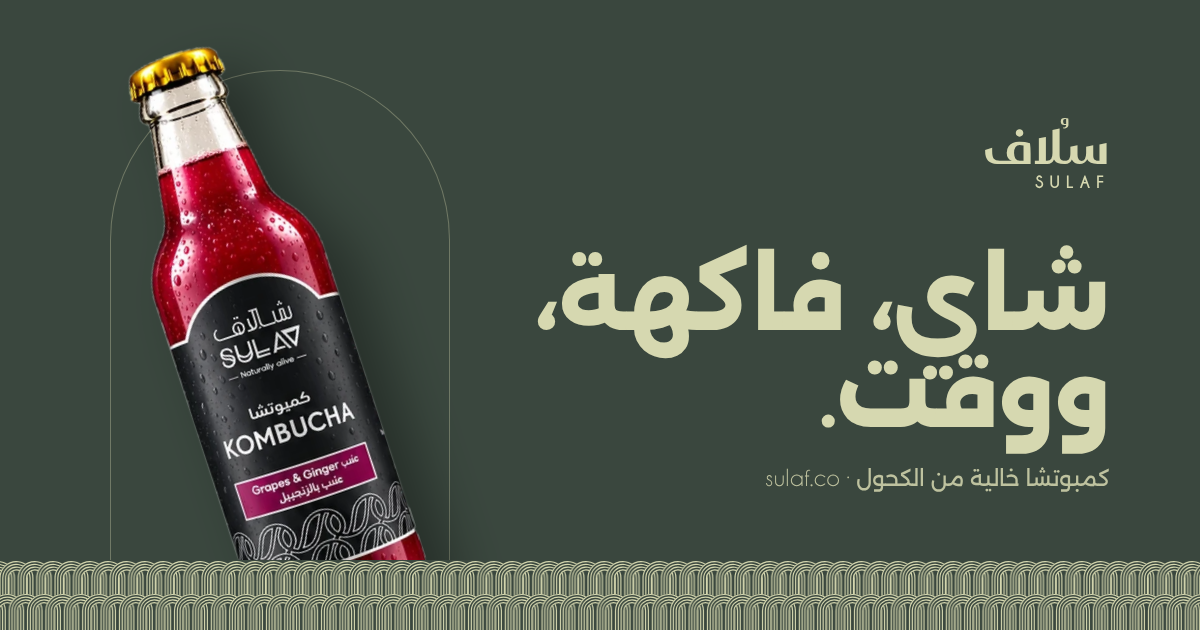
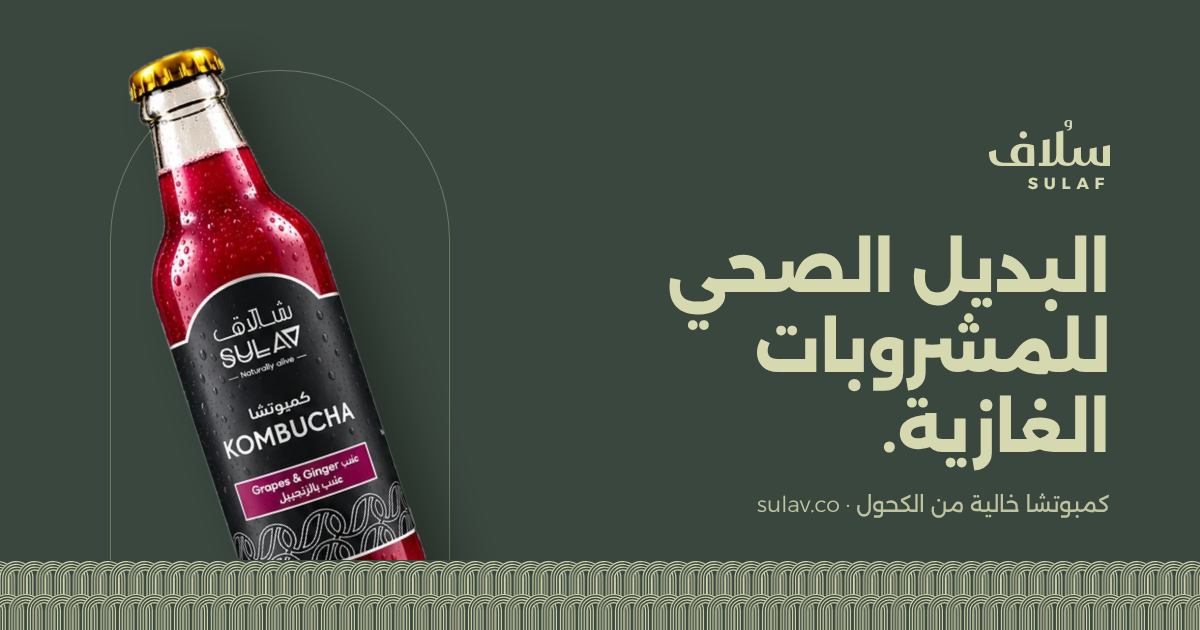
Use sulav.co as the site domain; update share images
Claude-Session: https://claude.ai/code/session_01RxdEn12g1rwQWam3Fj9Q5g

Changed region(s): [[0.4317, 0.3619, 0.925, 0.8143], [0.8017, 0.181, 0.925, 0.3016]]

diff --git a/src/content/site.ts b/src/content/site.ts
@@ -5,7 +5,7 @@ export const business = {
   vat: "310173271100003",
   cr: "7002315484",
   year: 2026,
-  domain: "sulaf.co",
+  domain: "sulav.co",
   /** [TBD: Instagram handle] */
   instagram: null as string | null,
   /** [TBD: TikTok handle] */

diff --git a/README.md b/README.md
@@ -35,6 +35,6 @@ Alexandria for Arabic and English (SIL Open Font License, free for web use), def
 Set `instagram` / `tiktok` in `src/content/site.ts` (handle without `@`). Until then the footer shows `[TBD]`.
 
 ## Deploy
-Vercel, domain `sulaf.co`.
+Vercel, domain `sulav.co`.
 1. In Vercel: **Add New → Project → Import** this GitHub repository. Framework: Next.js (detected). No environment variables needed.
-2. **Settings → Domains → Add** `sulaf.co` and `www.sulaf.co`, then add the DNS records Vercel shows at your domain registrar.
+2. **Settings → Domains → Add** `sulav.co` and `www.sulav.co`, then add the DNS records Vercel shows at your domain registrar.
